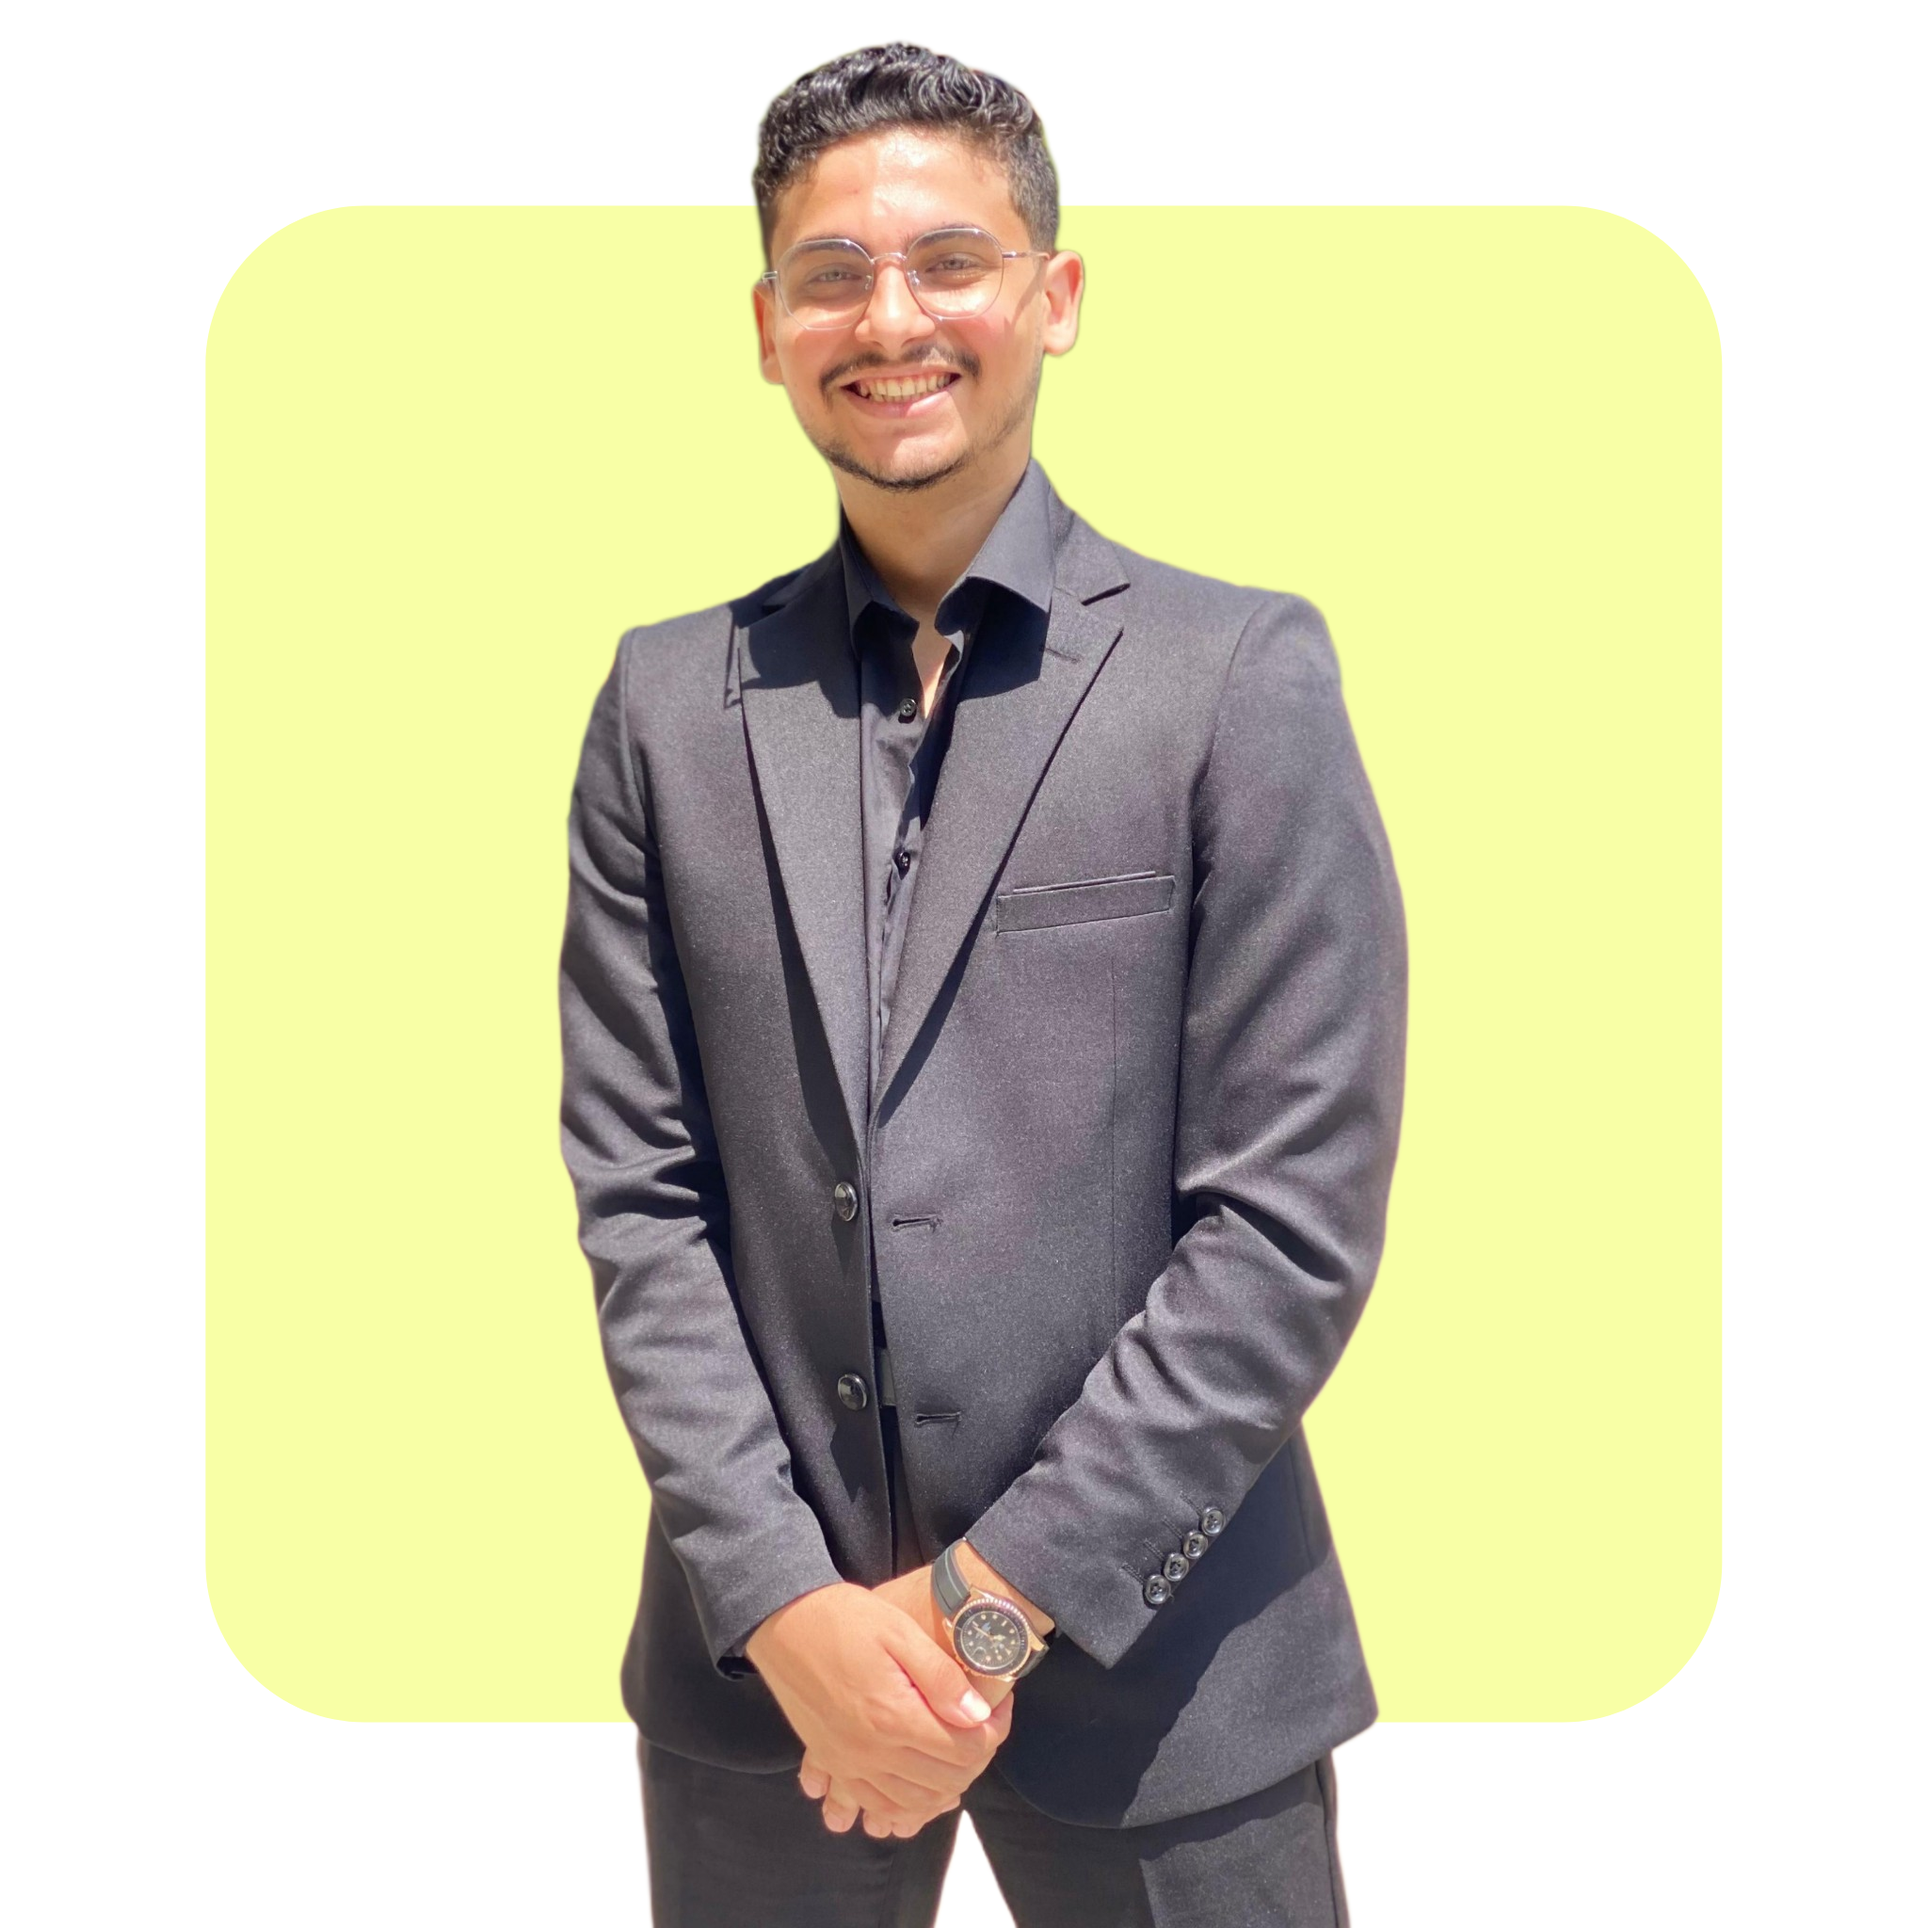
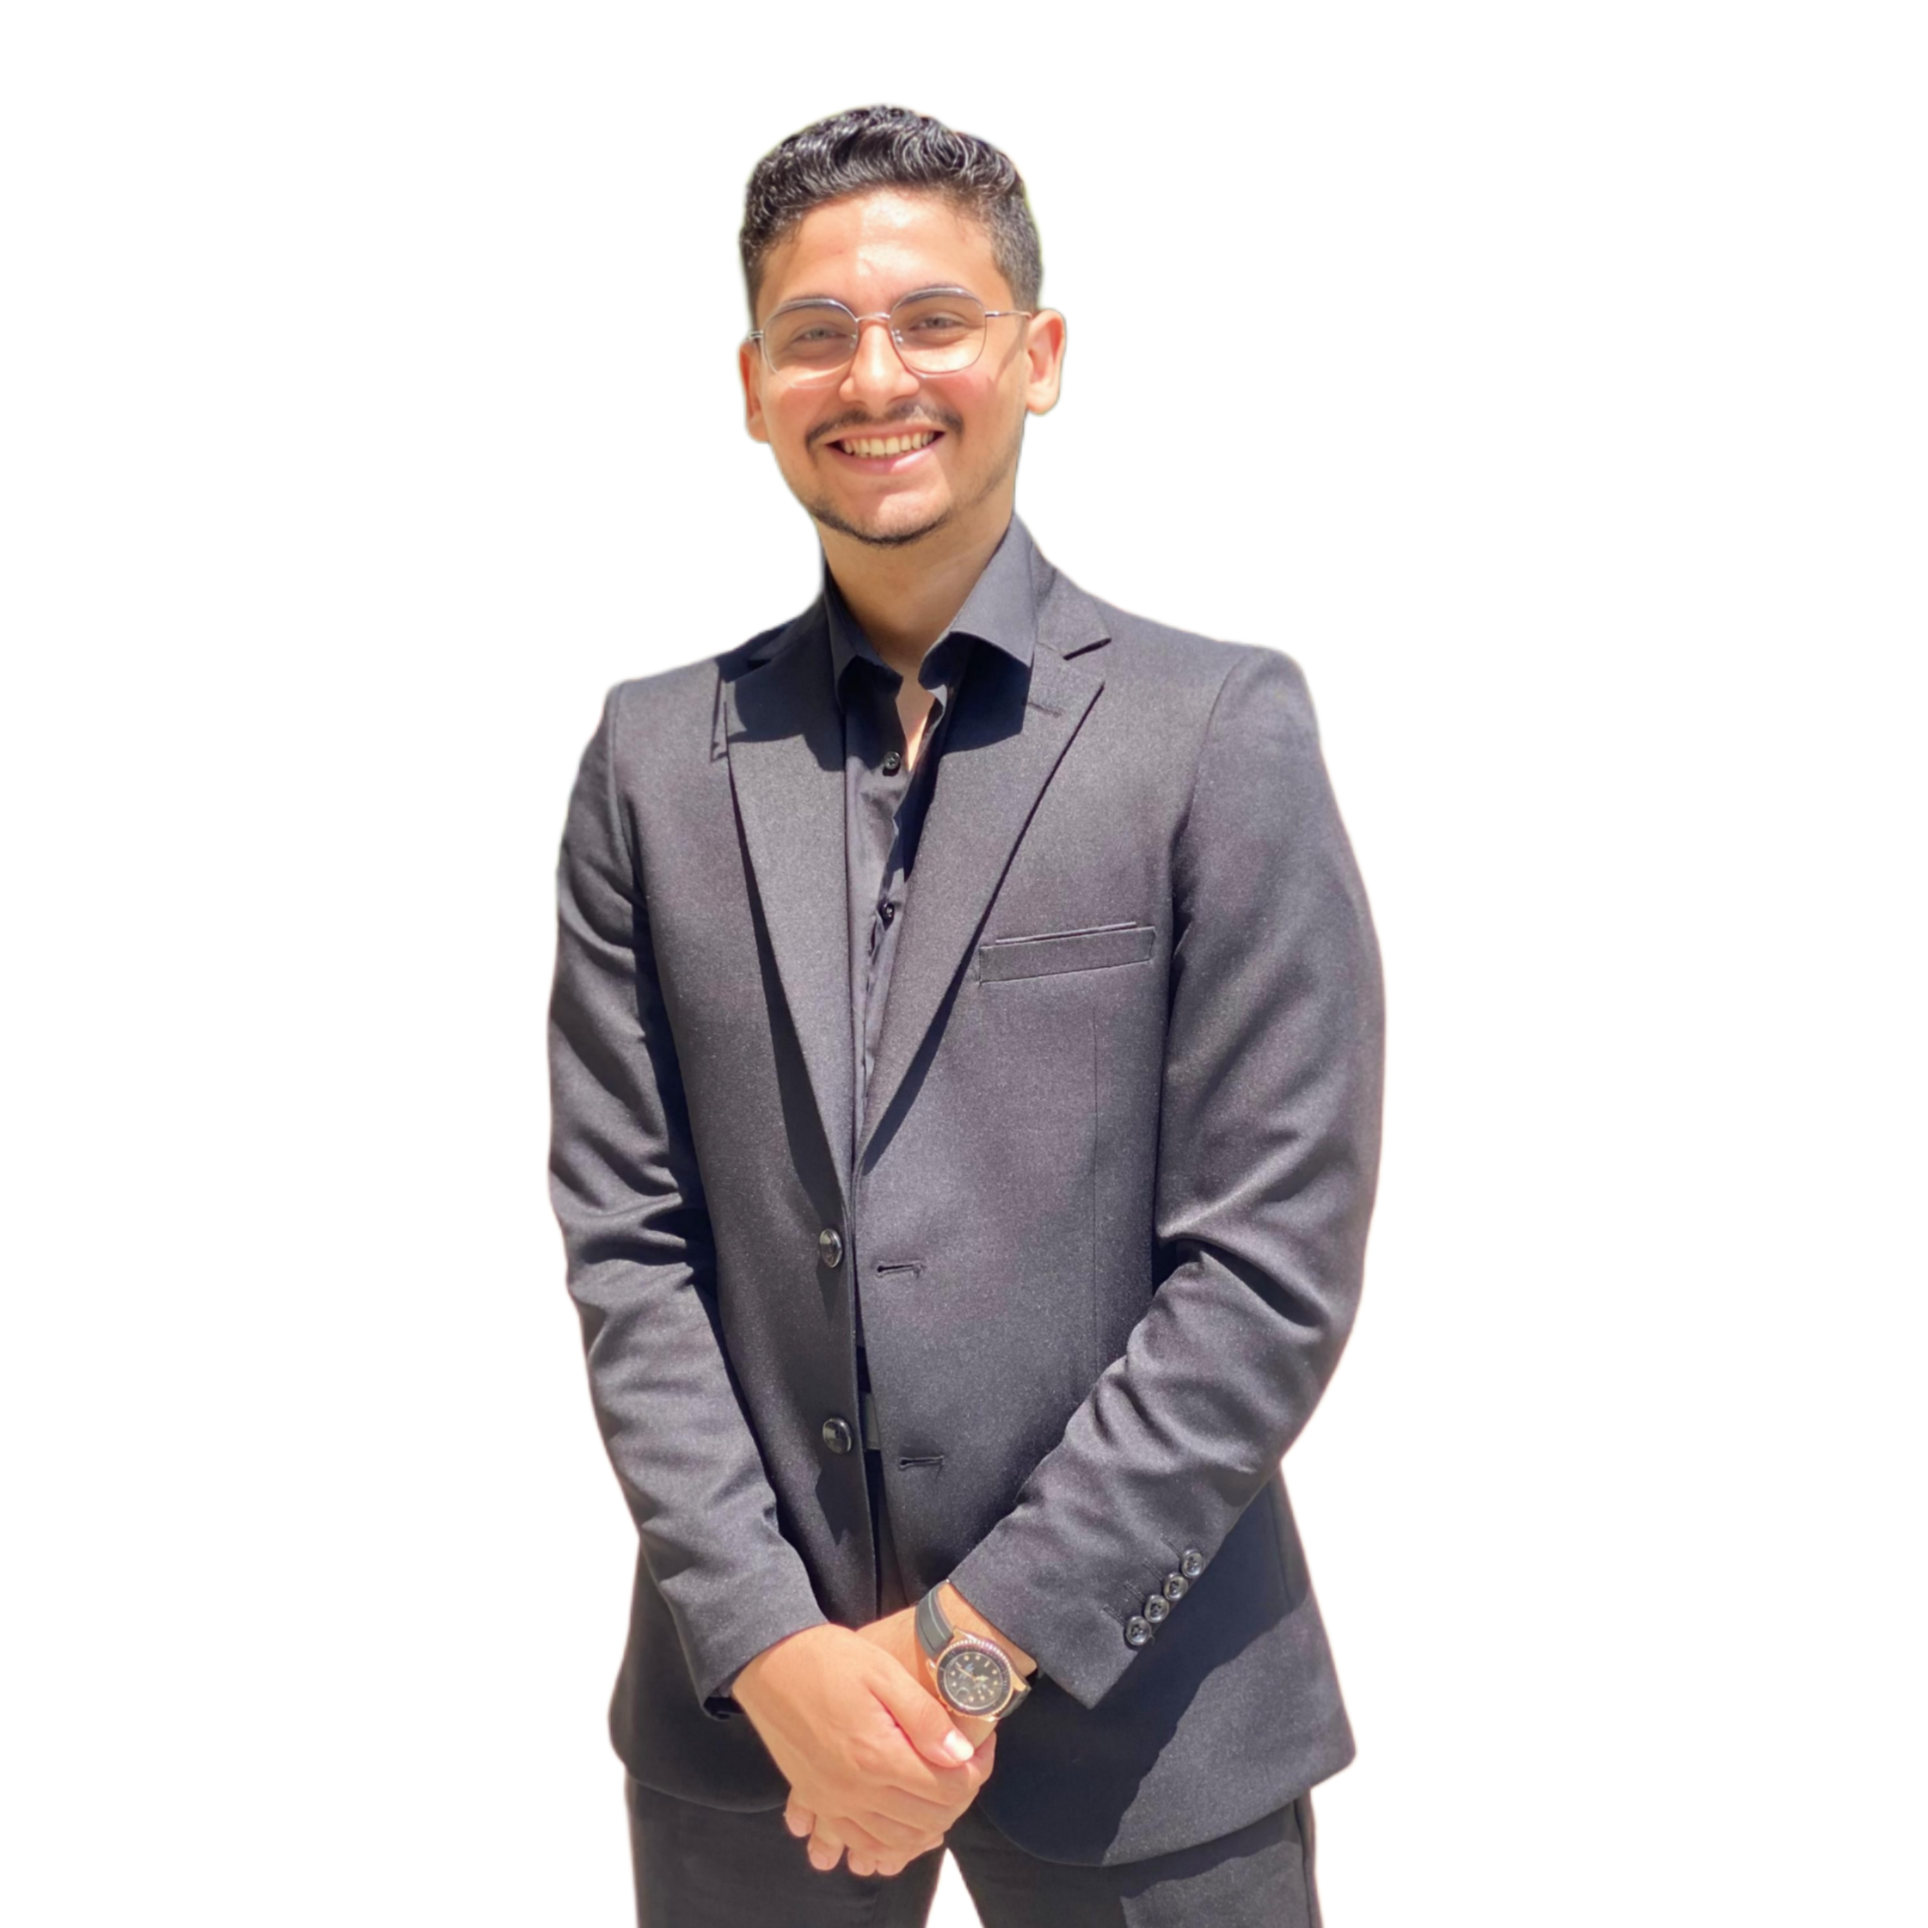
add: enhance colors, image, header and finishing up home, about, projects pages

diff --git a/app/(pages)/projects/page.tsx b/app/(pages)/projects/page.tsx
@@ -60,8 +60,8 @@ export default function ProjectsPage() {
               <div className="bg-gradient-to-r from-primary-light/10 to-secondary-light/10 dark:from-primary-dark/20 dark:to-secondary-dark/20 rounded-3xl p-8 md:p-12">
                 <div className="max-w-4xl mx-auto">
                   <p className="text-xl md:text-2xl text-gray-600 dark:text-gray-300 mb-8 leading-relaxed">
-                    Welcome to my digital workshop! Here you&apos;ll find a curated
-                    collection of
+                    Welcome to my digital workshop! Here you&apos;ll find a
+                    curated collection of
                     <span className="text-primary-light dark:text-primary-dark font-medium">
                       {' '}
                       professional projects{' '}
@@ -78,16 +78,16 @@ export default function ProjectsPage() {
                       href="/about"
                       variant="primary"
                       ariaLabel="Learn more about me"
-                      className="group inline-flex items-center gap-2 px-6 py-3 text-lg"
+                      className="group inline-flex items-center gap-2 px-6 py-3 text-lg w-fit"
                     >
-                      <span>My Story</span>
+                      My Story
                       <FiArrowRight className="transition-transform group-hover:translate-x-1" />
                     </Button>
                     <Button
                       href="#works"
                       variant="tertiary"
                       ariaLabel="View works"
-                      className="group inline-flex items-center gap-2 px-2 py-3 text-lg"
+                      className="group inline-flex items-center gap-2 px-2 py-3 text-lg w-fit"
                     >
                       <FiBriefcase className="w-5 h-5" />
                       <span>Jump to Works</span>

diff --git a/app/(pages)/about/page.tsx b/app/(pages)/about/page.tsx
@@ -13,6 +13,7 @@ import TechCard from '@/app/ui/about/tech-card';
 import ToolCard from '@/app/ui/about/tool-card';
 
 import { techStack, toolsStack } from '@/app/data/tech-tool';
+import BgImage from '@/app/ui/bg-image';
 
 export const metadata: Metadata = {
   title: 'About',
@@ -96,8 +97,9 @@ export default function AboutPage() {
                     height={300}
                     src="/my.png"
                     alt="Abdulrahman Moussa"
-                    className="relative rounded-2xl border-4 border-secondary-background-light dark:border-secondary-background-dark w-full h-auto"
+                    className="relative rounded-2xl border-4 border-secondary-background-light dark:border-secondary-background-dark w-full h-auto z-[2]"
                   />
+                  <BgImage></BgImage>
                 </div>
 
                 <div className="space-y-2 p-4 bg-secondary-background-light dark:bg-secondary-background-dark rounded-xl">
@@ -195,7 +197,7 @@ export default function AboutPage() {
                   </div>
                 </div>
 
-                <div className="p-4 bg-purple-50 dark:bg-purple-900 rounded-xl">
+                <div className="p-4 bg-orange-50 dark:bg-orange-900 rounded-xl">
                   <h4 className="font-semibold mb-2 flex items-center gap-2">
                     🚀 Career Goals
                   </h4>

diff --git a/app/ui/home/custom-card.tsx b/app/ui/home/custom-card.tsx
@@ -1,5 +1,6 @@
 import Image from 'next/image';
 import { FaFingerprint } from 'react-icons/fa';
+import BgImage from '../bg-image';
 
 export default function CustomCard() {
   return (
@@ -10,9 +11,11 @@ export default function CustomCard() {
           width={500}
           height={500}
           alt="Abdulrahman Moussa Picture"
+          className="relative z-[2]"
         />
+        <BgImage />
         <div
-          className="flex items-center justify-center absolute -top-[1px] -right-[1px] bg-secondary-background-light dark:bg-secondary-background-dark w-10 h-10"
+          className="flex items-center justify-center absolute -top-[1px] -right-[1px] bg-secondary-background-light dark:bg-secondary-background-dark w-10 h-10 z-10"
           style={{
             clipPath: 'polygon(100% 0, 100% 100%, 30% 100%, 0 70%, 0 0)',
           }}

diff --git a/app/ui/header.tsx b/app/ui/header.tsx
@@ -3,20 +3,21 @@
 import ToggleDark from './home/toggle-dark';
 import Breadcrumb from './bread-crumb';
 import { usePathname } from 'next/navigation';
+import Logo from './logo';
 
 const Header = () => {
   const pathname = usePathname();
 
   return (
-    <header className="flex justify-between items-center p-4 max-w-7xl mx-auto bg-primary-light dark:bg-primary-dark rounded-lg">
+    <header className="flex justify-between items-center py-4 px-8 max-w-7xl mx-auto">
       {pathname !== '/' ? (
         <div className="flex items-center space-x-2">
           <Breadcrumb />
         </div>
       ) : (
-        <p>Logo</p>
+        <Logo />
       )}
-      <div className="p-1 bg-background-light  rounded-full">
+      <div>
         <ToggleDark />
       </div>
     </header>

diff --git a/app/ui/logo.tsx b/app/ui/logo.tsx
@@ -1,0 +1,14 @@
+import React from 'react';
+
+const Logo = () => {
+  return (
+    <div className="flex flex-col items-center justify-center gap-y-1 group">
+      <p className="text-xl text-white font-normal group-hover:font-bold bg-primary-light dark:bg-primary-dark p-2 rounded-full duration-300">
+        AM
+      </p>
+      <p className="text-xs font-bold">Abdulrahman Moussa</p>
+    </div>
+  );
+};
+
+export default Logo;

diff --git a/app/ui/bg-image.tsx b/app/ui/bg-image.tsx
@@ -1,0 +1,18 @@
+import { cn } from '../lib/utils';
+
+interface BgImageProps {
+  className?: string;
+}
+
+const BgImage = ({ className }: BgImageProps) => {
+  return (
+    <div
+      className={cn(
+        'absolute bg-background-dark dark:bg-background-light w-4/5 h-4/5 top-1/2 -translate-y-1/2 left-1/2 -translate-x-1/2 z-[1] rounded-lg',
+        className
+      )}
+    ></div>
+  );
+};
+
+export default BgImage;

diff --git a/tailwind.config.ts b/tailwind.config.ts
@@ -16,8 +16,8 @@ export default {
         'background-dark': '#0a0a0a',
         'secondary-background-dark': '#212121',
         'text-dark': '#ededed',
-        'primary-light': '#C97C5D',
-        'primary-dark': '#C89F9C',
+        'primary-light': '#2D336B',
+        'primary-dark': '#7886C7',
       },
       animation: {
         'fade-in': 'fade-in 0.5s linear',

diff --git a/app/ui/home/toggle-dark.tsx b/app/ui/home/toggle-dark.tsx
@@ -38,7 +38,6 @@ const ToggleDark = () => {
   return (
     <button
       onClick={toggleTheme}
-      className="p-2 rounded-md"
       aria-label="Toggle Dark Mode"
     >
       {isDarkMode ? (
